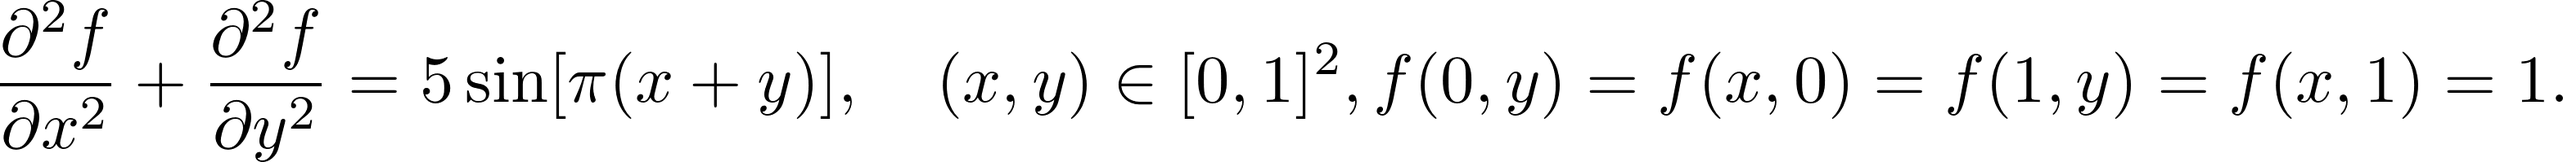
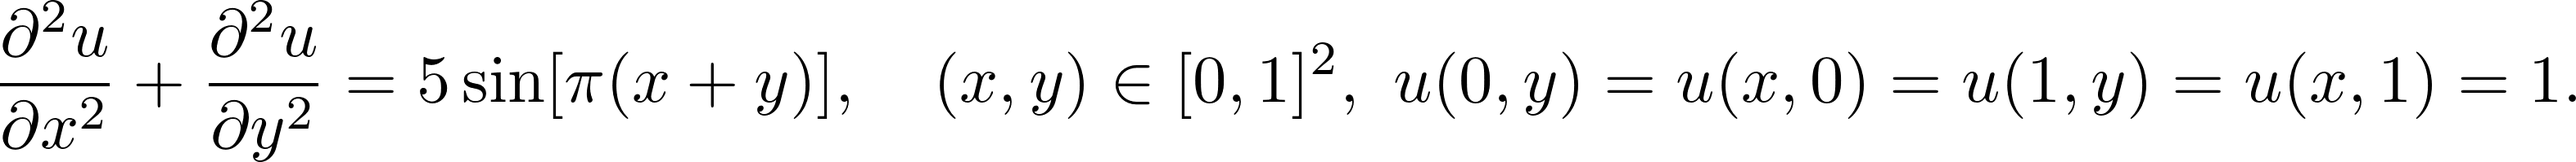
update expressions: f -> u

diff --git a/README.md b/README.md
@@ -48,7 +48,7 @@ dg.fit(batch_size=100, sampler=us, n_iters=1500)
 in a fraction of second we've got a mesh-free approximation of the solution on **[0, 1]X[0, 1]**-square:
 
 <p align="center">
-<img src="./imgs/poisson_sol.png?invert_in_darkmode" align=middle height=330.973825pt/>
+<img src="./imgs/poisson_sol.png?invert_in_darkmode" align=middle height=350.973825pt/>
 </p>
 
 ## Going deeper into **PyDEns**-capabilities
